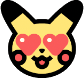
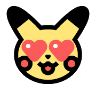
Chat reactions: always-visible react button by the time, evenly cropped faces
The hover-only React link left a gap in every line and was hard to find.
A greyed Pikachu now sits left of the timestamp on each line (full colour
on hover, focus or while open); Escape closes the choices. The six faces
share one crop box so they keep the same size and position in the chips.

diff --git a/frontend/src/lib/components/Chat.svelte b/frontend/src/lib/components/Chat.svelte
@@ -192,7 +192,10 @@
 <section
 	class="panel chat"
 	aria-label="Chat"
-	onkeydown={(e) => e.stopPropagation()}
+	onkeydown={(e) => {
+		e.stopPropagation();
+		if (e.key === 'Escape') picking = null;
+	}}
 	onkeyup={(e) => e.stopPropagation()}
 >
 	<header>
@@ -222,13 +225,6 @@
 			{@const system = isSystem(m)}
 			<li class:system class:mine={m.user === session.me?.id}>
 				<time class="ts" datetime={new Date(m.at).toISOString()}>{time(m.at)}</time>
-				<!-- System lines need no sender; admin-only ones keep a tag so admins know players don't see them. -->
-				{#if system}<span class="sr-only">System: </span>{:else}<span class="who" style:--name={nameColor(m.user)}>{m.name}</span>{/if}
-				{#if m.kind === 'ADMIN'}<span class="tag admin-only">admin only</span>{/if}
-				{#if m.command}<span class="tag">command</span>{/if}
-				<span class="text"
-					>{#if system}{#each systemParts(m.text) as part, i (i)}{#if part.mode}<span class="mode {part.mode}">{part.text}</span>{:else if part.town === 'rainbow'}<span class="town rainbow">{part.text}</span>{:else if part.town}<span class="town" style:--town={part.town}>{part.text}</span>{:else}{part.text}{/if}{/each}{:else}{m.text}{/if}</span
-				>
 				{#if m.kind !== 'ADMIN'}
 					<button
 						type="button"
@@ -236,9 +232,17 @@
 						class:open={picking === m.id}
 						aria-expanded={picking === m.id}
 						aria-label="React to {system ? 'system message' : `message from ${m.name}`}"
-						onclick={() => (picking = picking === m.id ? null : m.id)}>React</button
+						title="React"
+						onclick={() => (picking = picking === m.id ? null : m.id)}><img src={REACTIONS[0].src} alt="" /></button
 					>
 				{/if}
+				<!-- System lines need no sender; admin-only ones keep a tag so admins know players don't see them. -->
+				{#if system}<span class="sr-only">System: </span>{:else}<span class="who" style:--name={nameColor(m.user)}>{m.name}</span>{/if}
+				{#if m.kind === 'ADMIN'}<span class="tag admin-only">admin only</span>{/if}
+				{#if m.command}<span class="tag">command</span>{/if}
+				<span class="text"
+					>{#if system}{#each systemParts(m.text) as part, i (i)}{#if part.mode}<span class="mode {part.mode}">{part.text}</span>{:else if part.town === 'rainbow'}<span class="town rainbow">{part.text}</span>{:else if part.town}<span class="town" style:--town={part.town}>{part.text}</span>{:else}{part.text}{/if}{/each}{:else}{m.text}{/if}</span
+				>
 				{#if admin && !system}
 					<span class="mod">
 						<button type="button" onclick={() => del(m)} aria-label="Delete message from {m.name}">Delete</button>
@@ -430,26 +434,30 @@
 		padding: 2px 4px;
 		text-decoration: underline;
 	}
-	/* React: shown on hover or focus (always on touch screens) without shifting the line. */
+	/* React: a greyed Pikachu left of the time on every line; full colour on hover, focus or while open. */
 	.react {
+		float: right;
+		display: grid;
+		place-items: center;
+		width: 24px;
+		height: 20px;
+		margin-left: 4px;
+		padding: 0;
 		background: none;
 		border: none;
-		color: var(--muted);
-		font-size: 12px;
-		font-style: normal;
-		padding: 2px 4px;
-		text-decoration: underline;
-		opacity: 0;
+		border-radius: 6px;
 	}
-	li:hover .react,
-	li:focus-within .react,
-	.react.open {
+	.react img {
+		width: 18px;
+		height: 18px;
+		filter: grayscale(1);
+		opacity: 0.45;
+	}
+	.react:hover img,
+	.react:focus-visible img,
+	.react.open img {
+		filter: none;
 		opacity: 1;
-	}
-	@media (hover: none) {
-		.react {
-			opacity: 1;
-		}
 	}
 	.reactions {
 		display: flex;
@@ -462,8 +470,8 @@
 		display: inline-flex;
 		align-items: center;
 		gap: 2px;
-		height: 30px;
-		padding: 0 6px 0 2px;
+		height: 28px;
+		padding: 0 8px 0 4px;
 		border-radius: 15px;
 		border: 1px solid var(--border);
 		background: var(--bg);
@@ -476,9 +484,12 @@
 		background: color-mix(in oklab, var(--accent-text) 15%, var(--bg));
 	}
 	.reaction img {
-		width: 24px;
-		height: 24px;
-		object-fit: contain;
+		width: 22px;
+		height: 22px;
+	}
+	.reaction .n {
+		min-width: 1ch;
+		line-height: 1;
 	}
 	.mod button:hover {
 		color: var(--danger);
